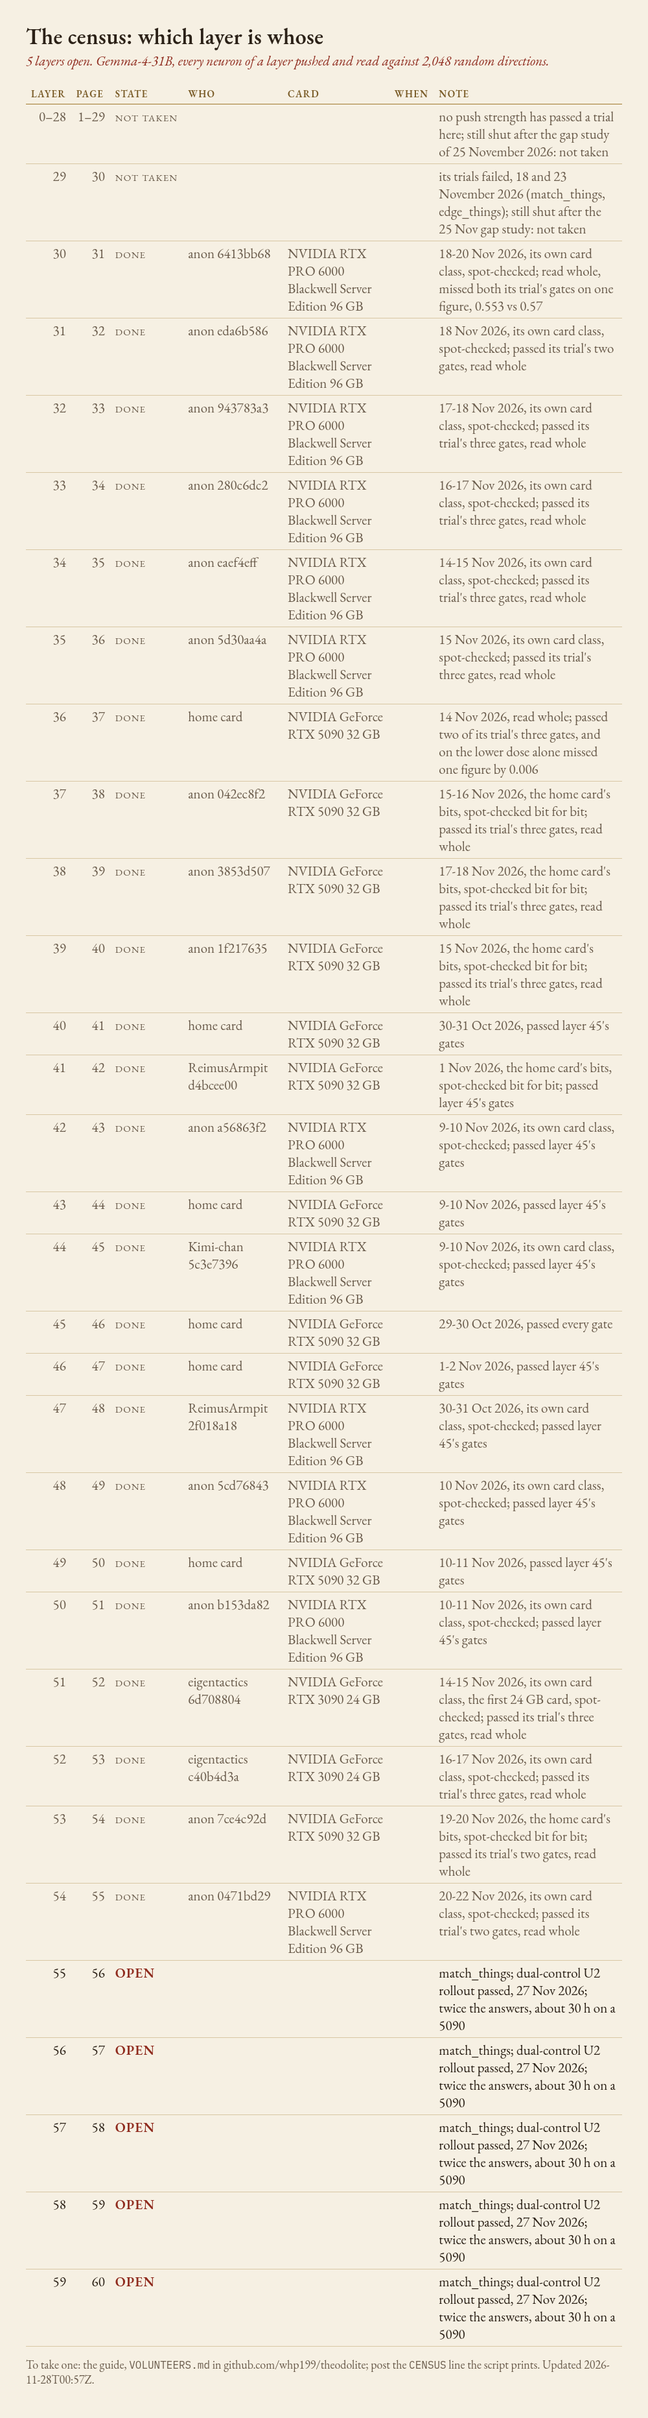
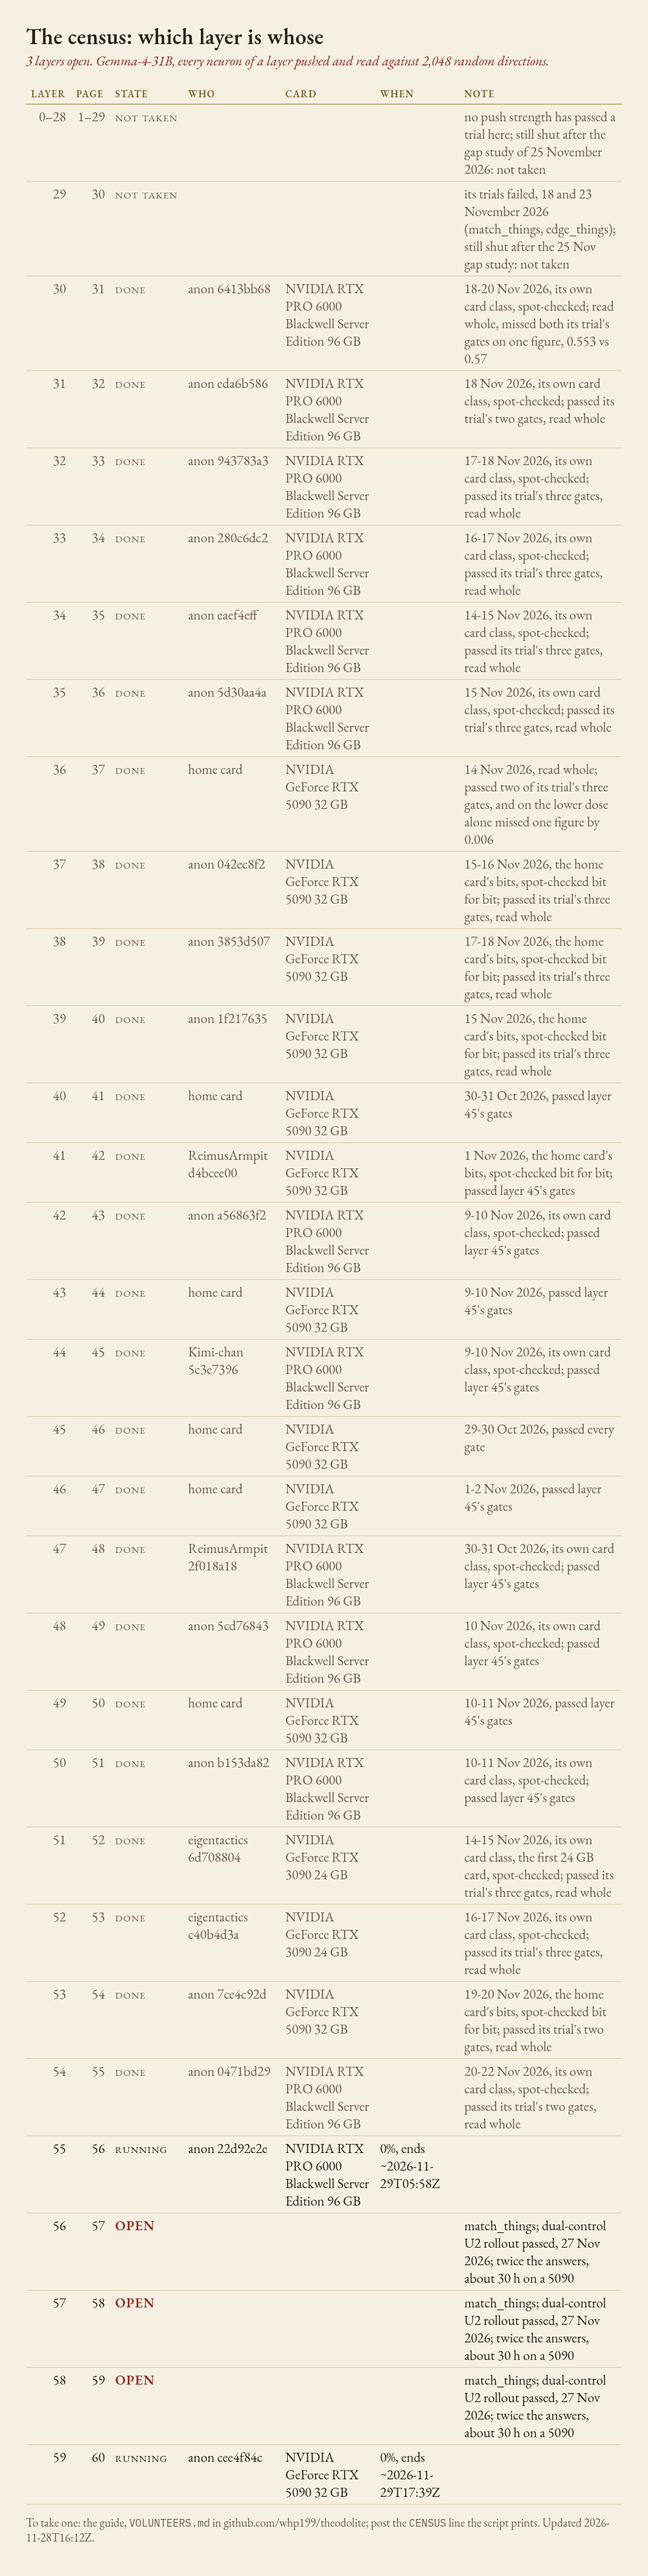
Board: L55 and L59 running under kit 8
L55 anon 22d92e2e (RTX PRO 6000 Blackwell, own bits), ends ~29 Nov 05:58Z.
L59 anon cee4f84c (RTX 5090, home bits), ends ~29 Nov 17:39Z.
L56-L58 stay open.

diff --git a/volunteers/BOARD.md b/volunteers/BOARD.md
@@ -31,11 +31,11 @@ Kit 8 (census-kit-8). How to take a layer: [VOLUNTEERS.md](https://github.com/wh
 | 52 | 53 | done | eigentactics c40b4d3a | NVIDIA GeForce RTX 3090 24 GB |  | 16-17 Nov 2026, its own card class, spot-checked; passed its trial's three gates, read whole |
 | 53 | 54 | done | anon 7ce4c92d | NVIDIA GeForce RTX 5090 32 GB |  | 19-20 Nov 2026, the home card's bits, spot-checked bit for bit; passed its trial's two gates, read whole |
 | 54 | 55 | done | anon 0471bd29 | NVIDIA RTX PRO 6000 Blackwell Server Edition 96 GB |  | 20-22 Nov 2026, its own card class, spot-checked; passed its trial's two gates, read whole |
-| 55 | 56 | OPEN |  |  |  | match_things; dual-control U2 rollout passed, 27 Nov 2026; twice the answers, about 30 h on a 5090 |
+| 55 | 56 | running | anon 22d92e2e | NVIDIA RTX PRO 6000 Blackwell Server Edition 96 GB | 0%, ends ~2026-11-29T05:58Z |  |
 | 56 | 57 | OPEN |  |  |  | match_things; dual-control U2 rollout passed, 27 Nov 2026; twice the answers, about 30 h on a 5090 |
 | 57 | 58 | OPEN |  |  |  | match_things; dual-control U2 rollout passed, 27 Nov 2026; twice the answers, about 30 h on a 5090 |
 | 58 | 59 | OPEN |  |  |  | match_things; dual-control U2 rollout passed, 27 Nov 2026; twice the answers, about 30 h on a 5090 |
-| 59 | 60 | OPEN |  |  |  | match_things; dual-control U2 rollout passed, 27 Nov 2026; twice the answers, about 30 h on a 5090 |
+| 59 | 60 | running | anon cee4f84c | NVIDIA GeForce RTX 5090 32 GB | 0%, ends ~2026-11-29T17:39Z |  |
 
 Judged:
 
@@ -59,4 +59,4 @@ Judged:
 - L53 anon 7ce4c92d: accepted (home bits (NVIDIA GeForce RTX 5090), spot-checked)
 - L54 anon 0471bd29: accepted (own bits (NVIDIA RTX PRO 6000 Blackwell Server Edition), spot-checked)
 
-Holds: 36 h after RESERVE to START; then the run's end time (from PROGRESS) plus 24 h; at most 10 days in all. Updated 2026-11-28T00:57Z.
+Holds: 36 h after RESERVE to START; then the run's end time (from PROGRESS) plus 24 h; at most 10 days in all. Updated 2026-11-28T16:12Z.
